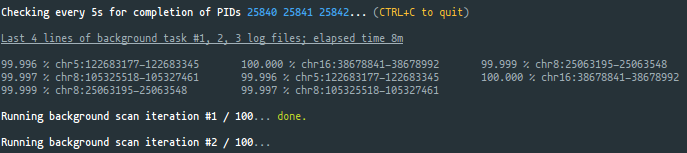
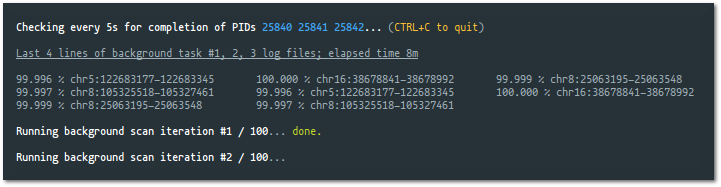
More robust sig handling/logging in example script

Changed region(s): [[0.0, 0.0, 1.0, 1.0], [0.3362, 0.4706, 0.6419, 0.6275], [0.3362, 0.3922, 0.6419, 0.4444]]

diff --git a/README.md b/README.md
@@ -52,13 +52,14 @@ Python 2.7, with modules:
     pip install -r requirements.txt
     ```
 
-3. Finally, run `./example.sh` within the "cosmo" directory.
+3. Finally, run `./example.sh` within the "cosmo" directory. A typical
+   invocation will look like this:
 
     ![Sample invocation of the `example.sh` script](img/example.sh.png)
 
     The sample script defaults to 100 background scan iterations, which may
-    take a great deal of time to complete. Set `BGSCANS` in the environment
-    if you wish to override this, like so:
+    take a considerable amount of time to complete. Set `BGSCANS` in the
+    environment if you wish to override this, like so:
 
     ```bash
     BGSCANS=3 ./example.sh
